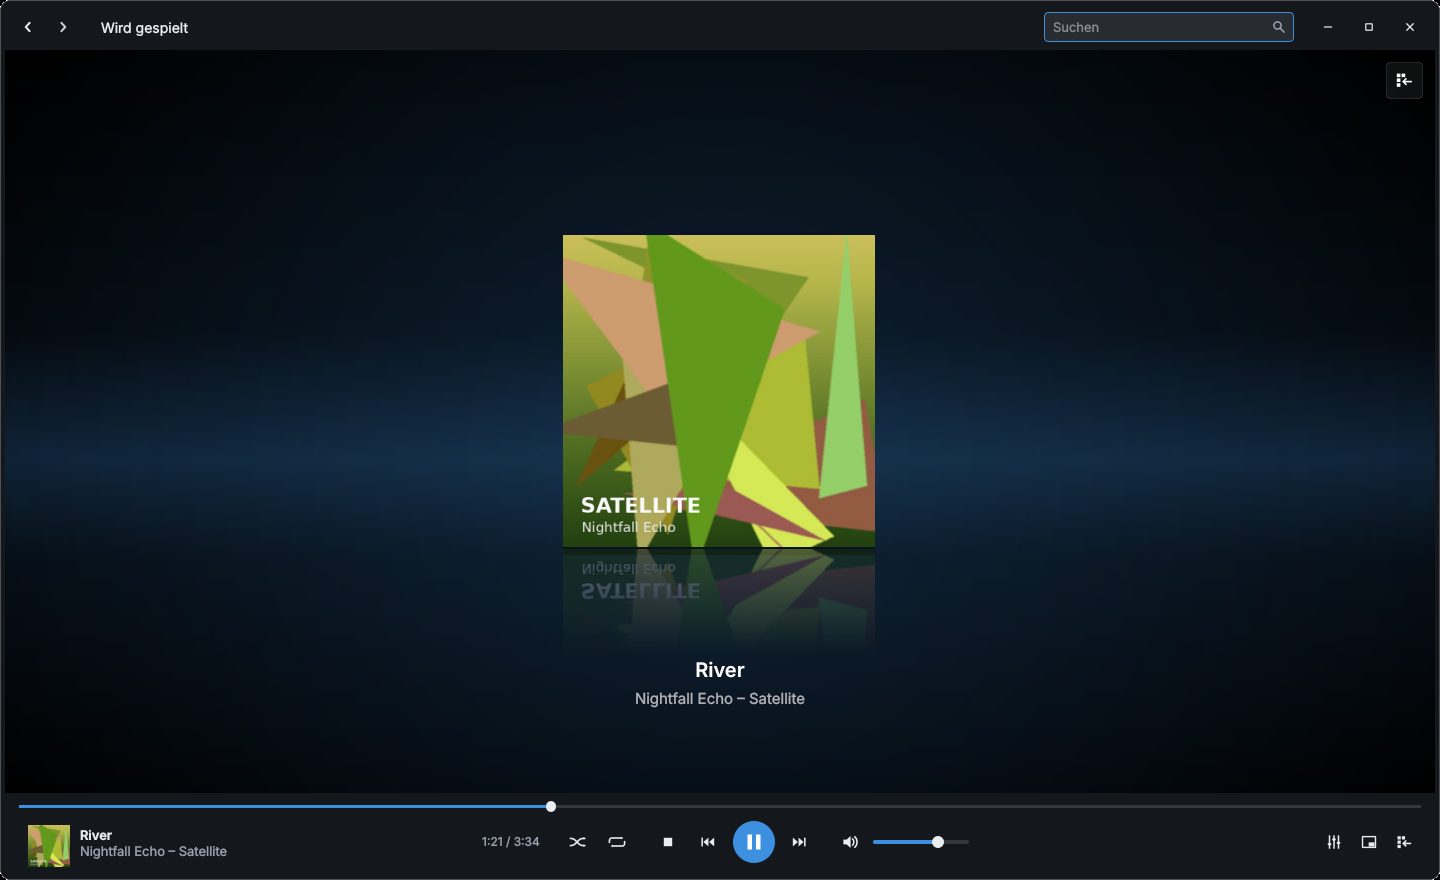
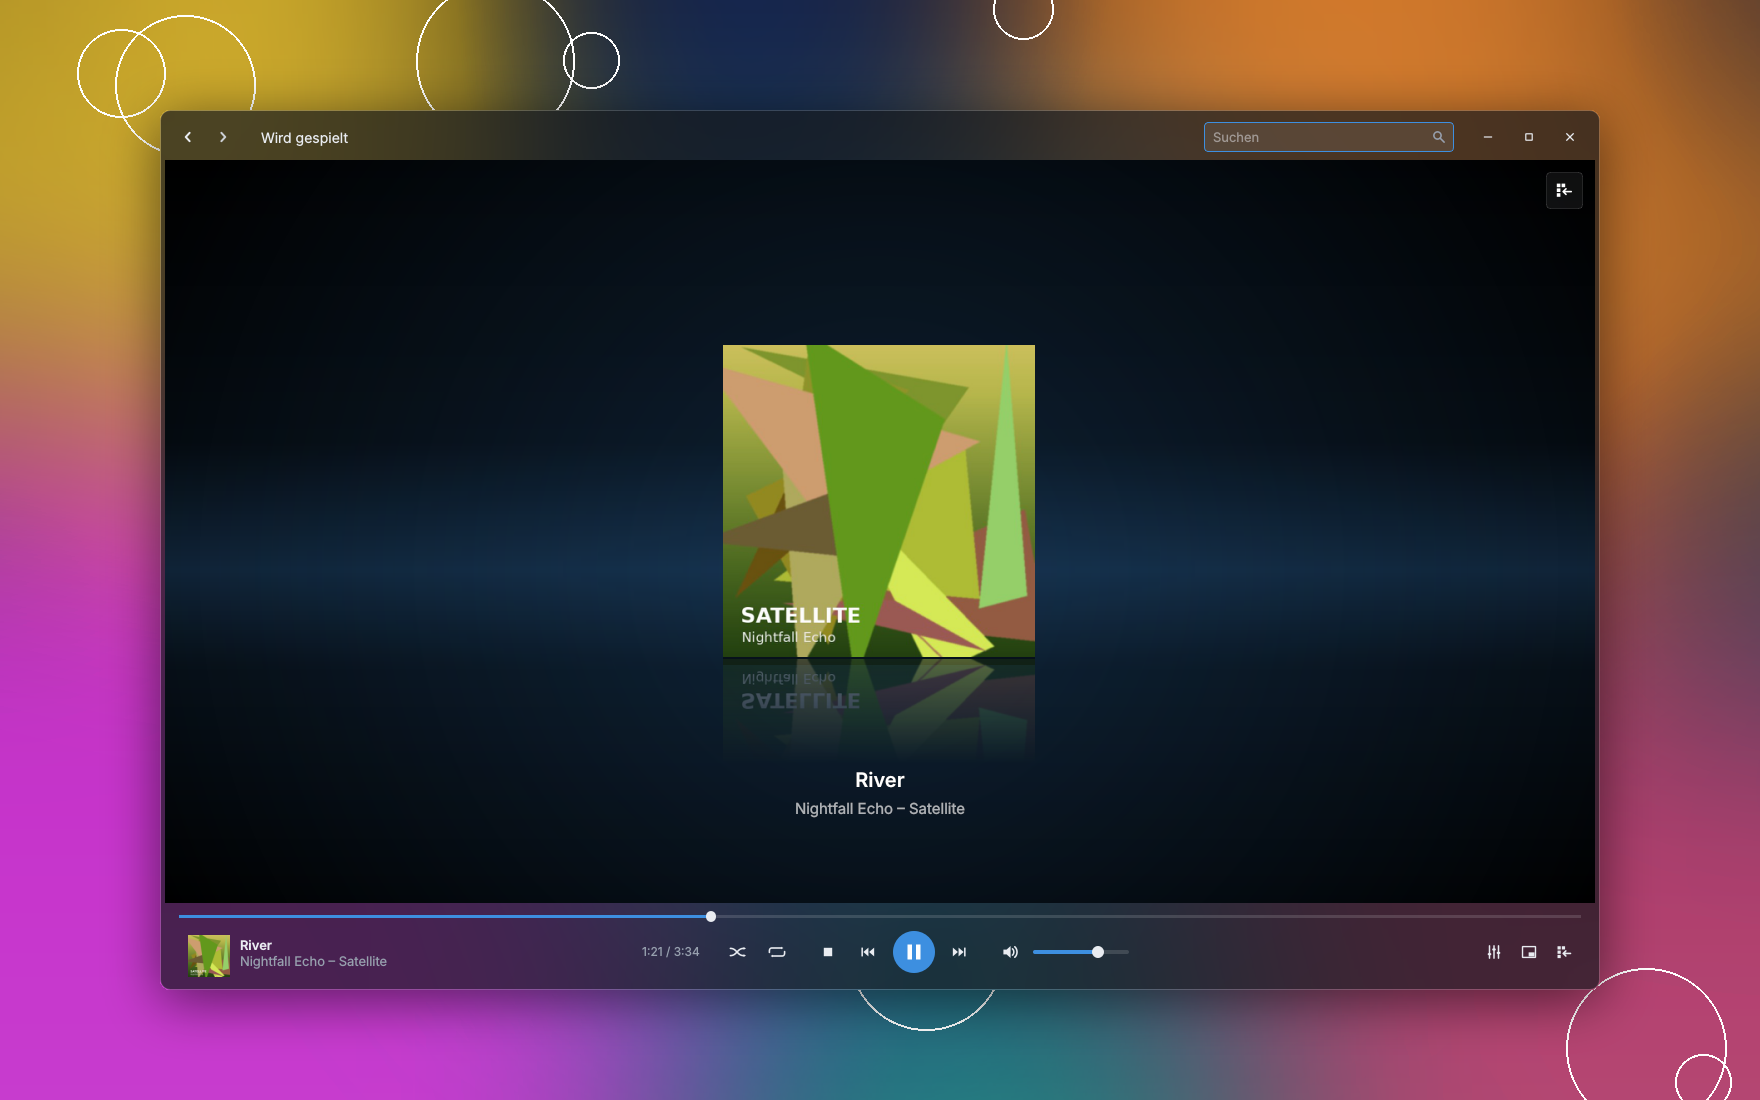
Screenshots mit Transparenz

diff --git a/README.md b/README.md
@@ -10,7 +10,7 @@ Ein Musik- und Videoplayer für Linux und Windows, angelehnt an Windows Media Pl
 | **„Wird gespielt“** | **Akzentfarbe Silber auf Schwarz** |
 | ![Wird gespielt](docs/screenshots/nowplaying.png) | ![Silber](docs/screenshots/silver.png) |
 
-<sub>Interpreten, Alben und Cover in den Bildern sind frei erfunden.</sub>
+<sub>Transparenz 70 % mit Weichzeichner (KDE Plasma). Interpreten, Alben, Cover und Hintergrund in den Bildern sind frei erfunden.</sub>
 
 ## Download
 
